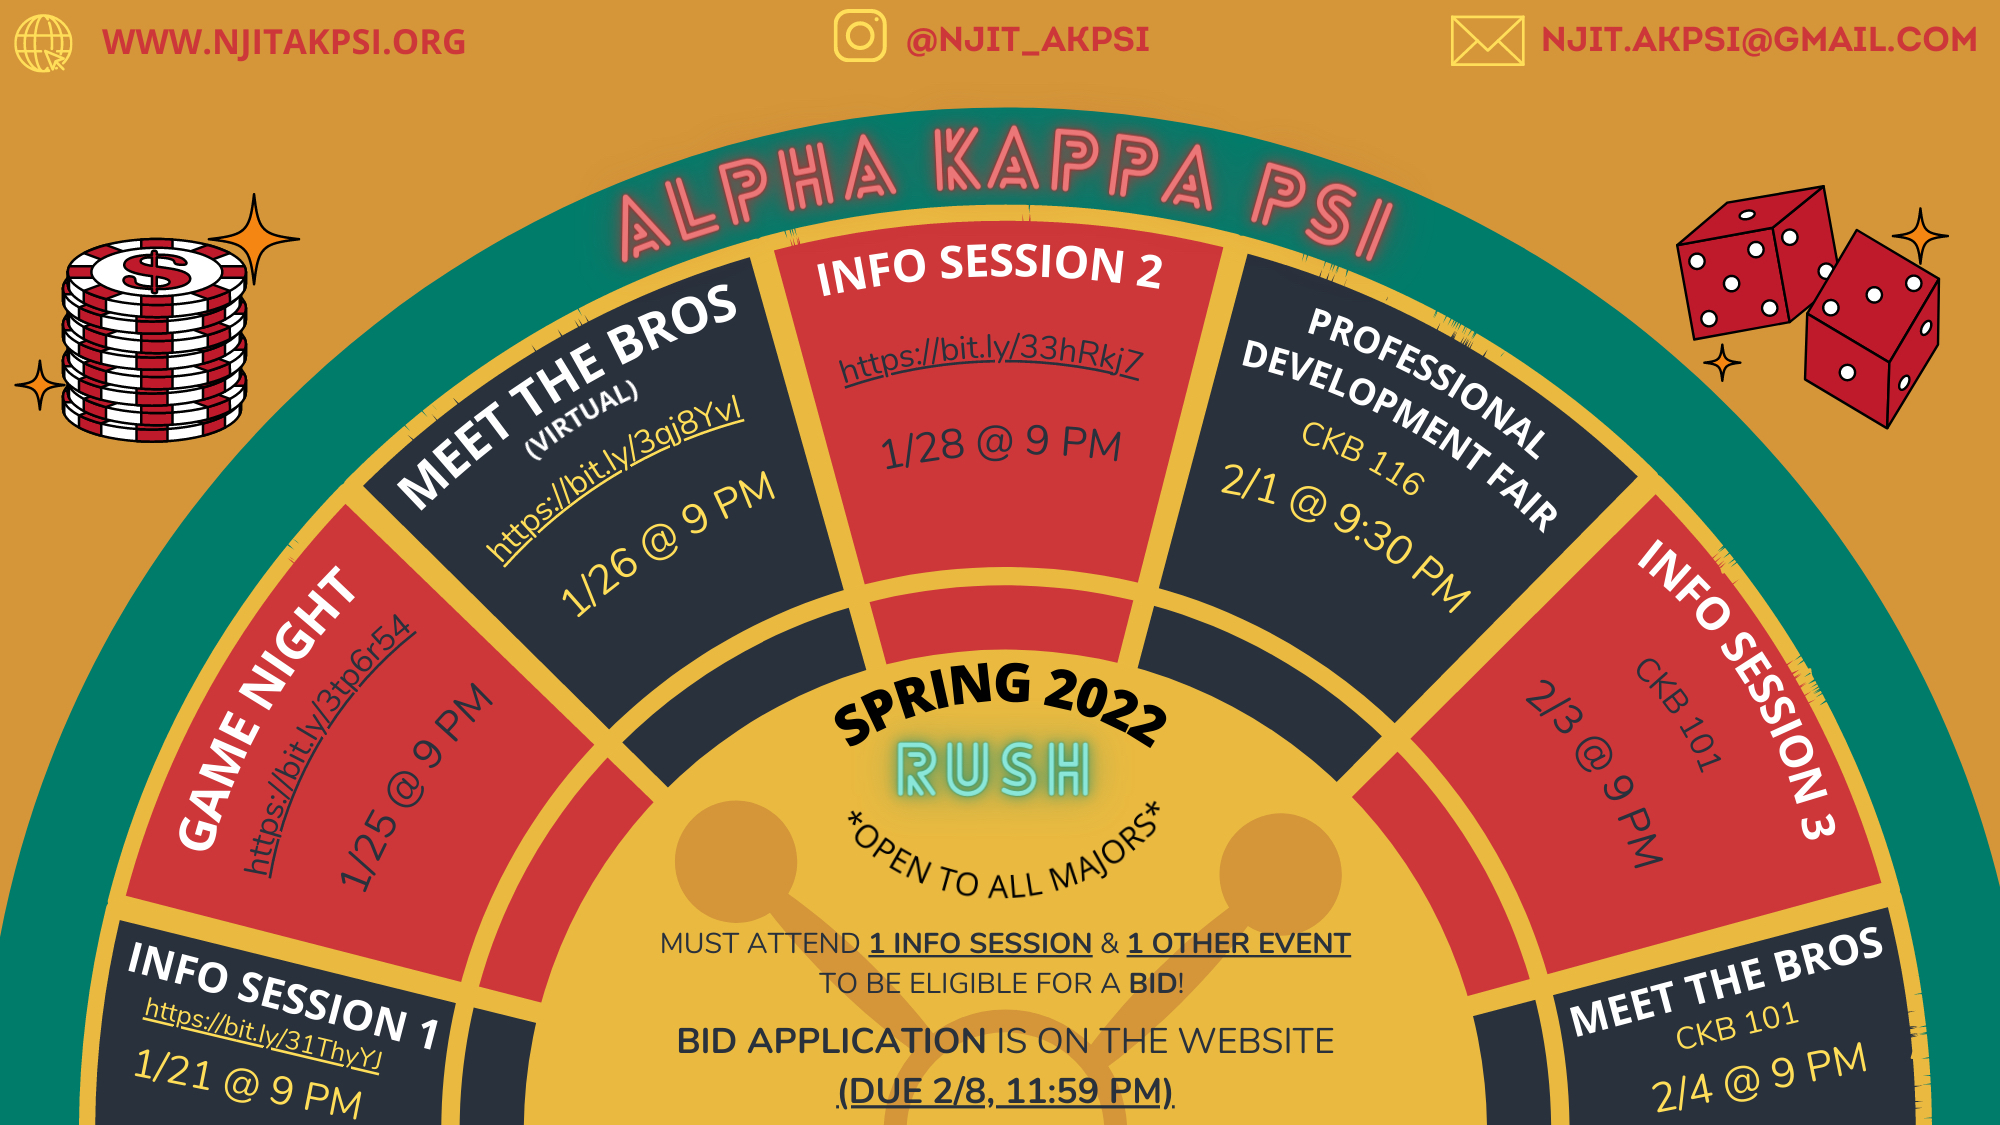
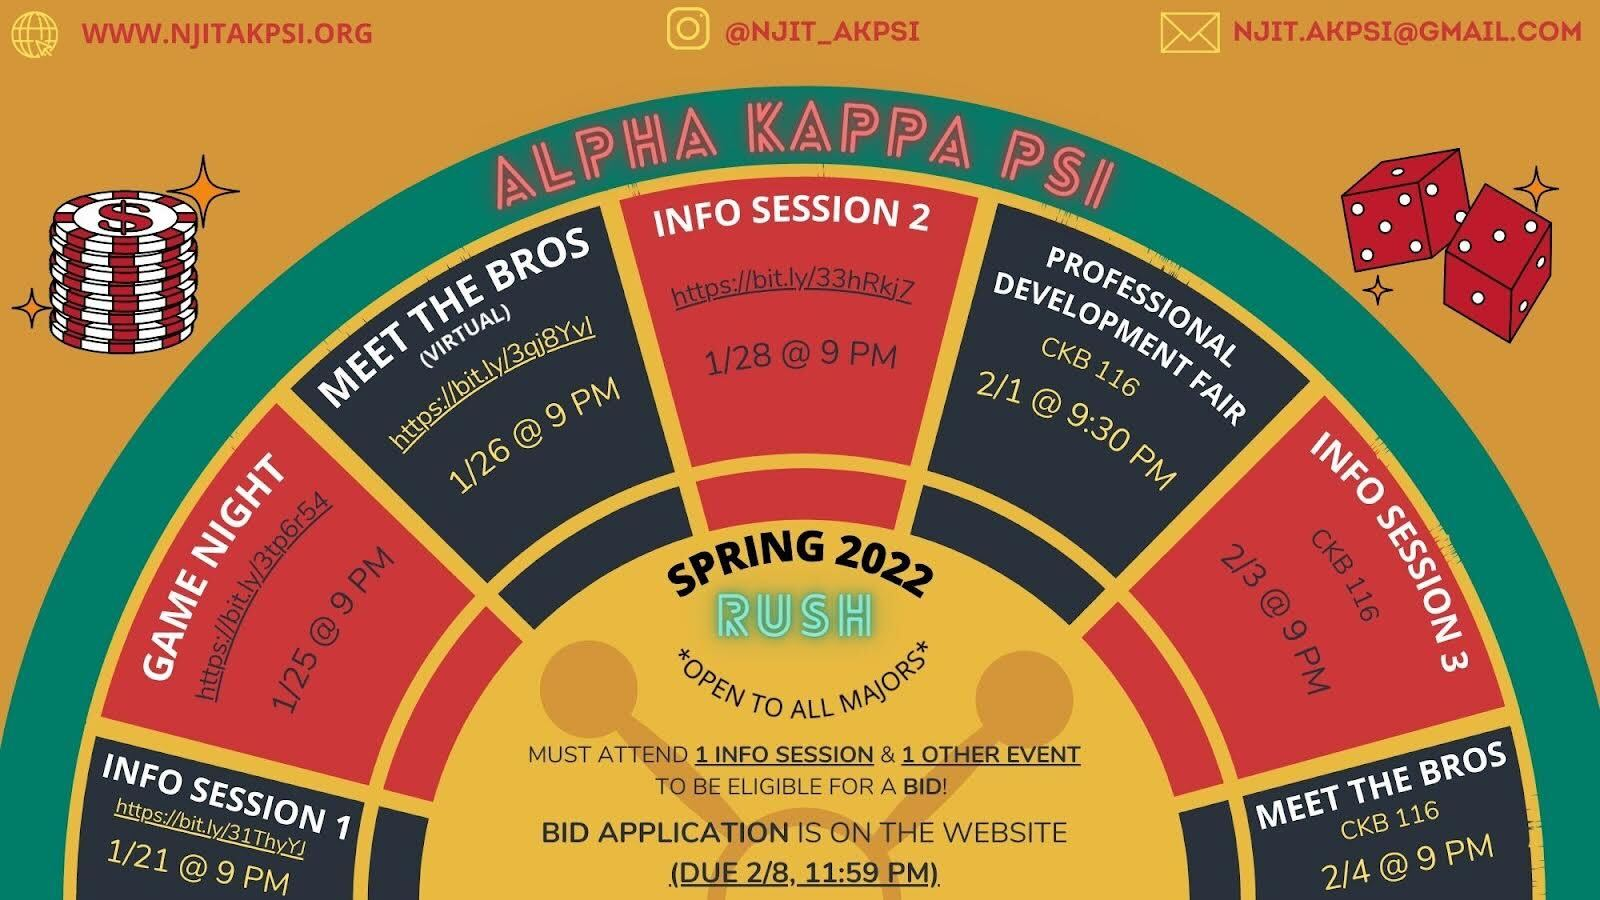
updated cal

diff --git a/rush.html b/rush.html
@@ -9,9 +9,9 @@
       <div class="container">
         <h1>Applications are Open!</h1>
          <!-- <p>Our process starts with you.</p>  -->
-		      <!-- Apply during rush season !-->
+		      <!-- Apply during rush season -->
           <p> Make sure to follow along with the calendar below in order to rush Alpha Kappa Psi this semester. Applications will be accepted until 9/20 at 11:59pm</p>
-       <a class="cta" href="/apply">Apply!</a> !-->
+       <a class="cta" href="/apply">Apply!</a> 
       </div>
     </div>
 
@@ -21,7 +21,7 @@
       <!-- Replace calendar here  --> <!--Moved cal above Awais q -->
         <div class="wrap">
           <div class="container">
-            <img class="rushcal" src="./assets/features/rushS22.png">
+            <img class="rushcal" src="./assets/features/rushS22.jpg">
             </div>
         </div>
 

diff --git a/index.html b/index.html
@@ -15,7 +15,7 @@
         </p>
         <!-- I switch from apply button to learn more button 
          <a class="cta" href="/about">Learn More</a>-->
-       <!----> <a class="cta" href="/apply">Apply!</a> <a class="cta" href="assets/features/rushS22.png">Rush Calendar!</a> <!-- Decided to add a button to the calendar on the front page --> 
+       <!----> <a class="cta" href="/apply">Apply!</a> <a class="cta" href="assets/features/rushS22.jpg">Rush Calendar!</a> <!-- Decided to add a button to the calendar on the front page --> 
       </div>
     </div>
     <div class="wrap proof">
